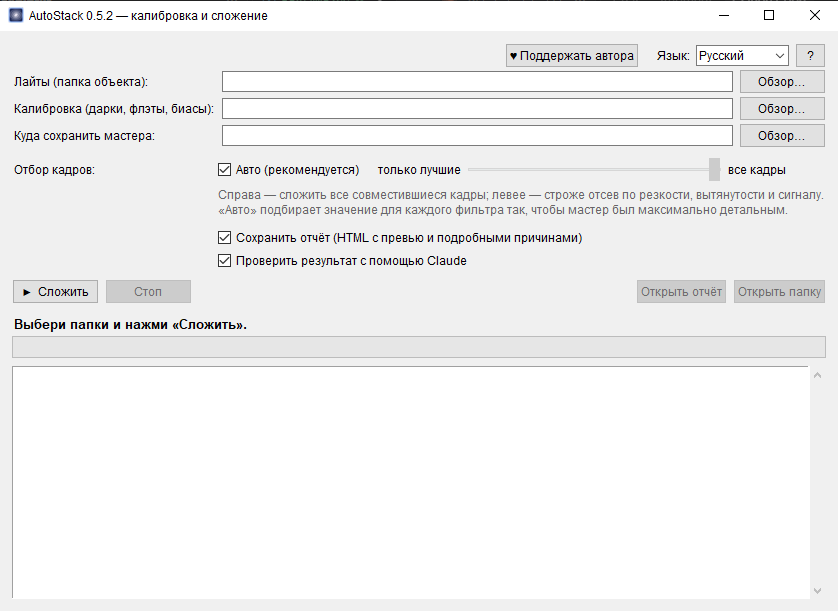
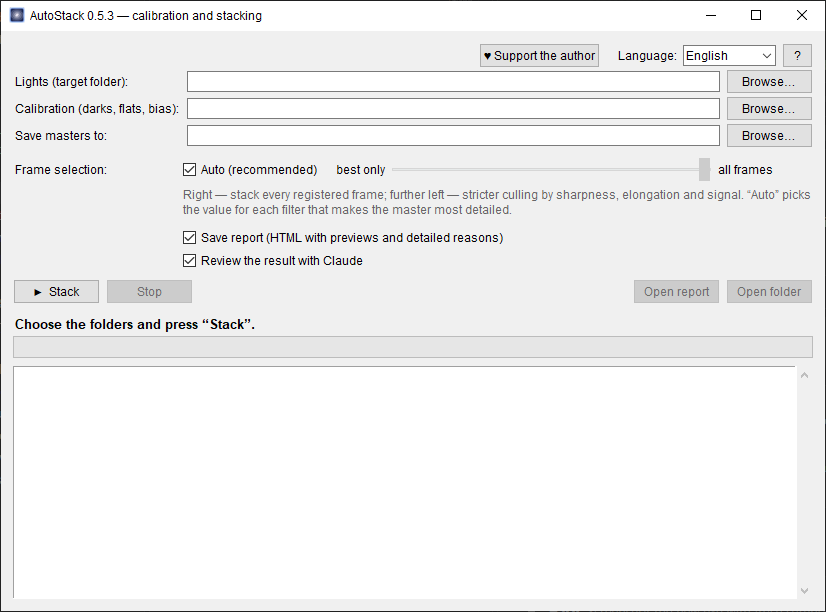
Download page: English first, English screenshot

diff --git a/README.md b/README.md
@@ -1,63 +1,63 @@
 # AutoStack
 
-**Калибровка и сложение астрофотографий в одну кнопку — поверх PixInsight WBPP.**
-*One-button calibration and stacking of astrophotos on top of PixInsight WBPP.* — [English below](#english)
+**One-button calibration and stacking of astrophotos — on top of PixInsight WBPP.**
+*Калибровка и сложение астрофотографий в одну кнопку — поверх PixInsight WBPP.* — [Русская версия ниже](#russian)
 
 ![AutoStack](screenshot.png)
 
-## Скачать
+## Download
 
-**[⬇ Последняя версия — Releases](../../releases/latest)** → `AutoStack-<версия>-win64.zip`, распаковать, запустить `AutoStack.exe`.
+**[⬇ Latest version — Releases](../../releases/latest)** → `AutoStack-<version>-win64.zip`, unzip, run `AutoStack.exe`.
 
-Windows может предупредить «Windows защитила компьютер» → «Подробнее» → «Выполнить в любом случае» (у программы нет платной подписи кода).
+Windows may show “Windows protected your PC” → “More info” → “Run anyway” (the program has no paid code-signing certificate).
 
-## Зачем
+## Why
 
-WBPP в PixInsight часто выбрасывает часть лайтов: мало звёзд, низкий SNR, неподходящие дарки, отсечка по весу — а подбирать настройки вручную долго. AutoStack делает это сам. Цель — сложить **все ваши лайты, по возможности 100%**, и объяснить по каждому кадру, который не вошёл, почему и что с этим делать.
+PixInsight's WBPP often drops some of your lights: too few stars, low SNR, unsuitable darks, the weight cut-off — and finding settings that work by hand is slow. AutoStack does it for you. The goal is to stack **all your lights, 100% where possible**, and to explain for every frame that didn't make it why and what to do about it.
 
-Внутри работает обычный, неизменённый WBPP — AutoStack только управляет им и проверяет результат.
+Inside it runs the ordinary, unmodified WBPP — AutoStack only drives it and checks the result.
 
-## Что умеет
+## Features
 
-- **Подбирает калибровку**: дарки (и флэты, биасы) по gain, offset, температуре и выдержке, а не только по выдержке, как WBPP. Ловит дарки от другой камеры или с другим gain и объясняет, почему они не подходят.
-- **Сам подбирает настройки регистрации** для каждого фильтра — от стандартных до самых чувствительных, включая поля с очень малым числом звёзд (например, галактика в Hα) — и **проверяет точность совмещения по звёздам**.
-- **Сам выбирает опорный кадр**, с которым совмещается больше всего кадров во всех фильтрах.
-- **«Отбор кадров»**: шкала от «только лучшие» до «все кадры» и режим **«Авто»**, который для каждого фильтра выбирает, при каком отборе мастер будет самым детальным.
-- Моно и цветные (OSC) камеры. Все мастера выровнены друг на друга — готовы к LRGB/SHO.
-- **Подробный отчёт** (HTML с превью): что вошло, что нет, почему и что делать.
-- Интерфейс на **русском и английском**.
-- По желанию — **проверка результата Claude** (если установлен Claude Code; только чтение).
+- **Matches calibration**: darks (and flats, bias) on gain, offset, temperature and exposure — not just exposure, as WBPP does. Catches darks from another camera or with another gain and explains why they don't fit.
+- **Finds registration settings by itself** for each filter — from default to the most sensitive, including very star-poor fields (e.g. a galaxy in Hα) — and **verifies alignment accuracy with stars**.
+- **Chooses the reference frame by itself**: the one the most frames of all filters register to.
+- **Frame selection**: a slider from “best only” to “all frames”, plus **Auto**, which picks for each filter the selection that gives the most detailed master.
+- Mono and colour (OSC) cameras. All masters are aligned to each other — ready for LRGB/SHO.
+- **Detailed report** (HTML with previews): what went in, what didn't, why, and what to do.
+- **English and Russian** interface.
+- Optional **review of the result by Claude** (if Claude Code is installed; read-only).
 
-## Что нужно
+## Requirements
 
 - Windows
-- PixInsight 1.9 с WBPP 3.x
-- по желанию: Claude Code
+- PixInsight 1.9 with WBPP 3.x
+- optional: Claude Code
 
-## Поддержать автора
+## Support the author
 
-Программа бесплатная. Если она вам помогла — **[♥ поддержать автора через PayPal](https://www.paypal.com/donate/?business=shanvit1201%40gmail.com&no_recurring=0&item_name=AutoStack)** (та же кнопка есть в окне программы).
+AutoStack is free. If it helped you — **[♥ support the author via PayPal](https://www.paypal.com/donate/?business=shanvit1201%40gmail.com&no_recurring=0&item_name=AutoStack)** (the same button is in the program window).
 
-## Лицензия
+## License
 
-Бесплатно для использования; можно передавать неизменённые копии официальных релизов. Изменять, декомпилировать и распространять изменённые версии нельзя — см. [LICENSE](LICENSE). Исходный код закрыт.
+Free to use; unmodified copies of official releases may be shared. Modifying, decompiling and distributing modified versions is not allowed — see [LICENSE](LICENSE). Closed source.
 
-PixInsight и WBPP — продукты Pleiades Astrophoto S.L., в AutoStack не входят и используются без изменений.
+PixInsight and WBPP are products of Pleiades Astrophoto S.L.; they are not included in AutoStack and are used unmodified.
 
 ---
 
-<a name="english"></a>
-## English
+<a name="russian"></a>
+## Русский
 
-**AutoStack** calibrates and stacks your light frames in PixInsight automatically. WBPP often drops frames (few stars, low SNR, unsuitable darks, the weight cut-off) and finding settings by hand is slow; AutoStack's goal is to stack **all your lights, 100% where possible**, and to explain for every frame that didn't make it why and what to do.
+**AutoStack** сам калибрует и складывает ваши лайты в PixInsight. WBPP часто выбрасывает кадры (мало звёзд, низкий SNR, неподходящие дарки, отсечка по весу), а подбирать настройки вручную долго; цель AutoStack — сложить **все ваши лайты, по возможности 100%**, и по каждому кадру, который не вошёл, объяснить, почему и что с этим делать.
 
-**[⬇ Download the latest release](../../releases/latest)** → unzip → run `AutoStack.exe` (Windows may show “Windows protected your PC” → “More info” → “Run anyway”).
+**[⬇ Скачать последнюю версию](../../releases/latest)** → распаковать → запустить `AutoStack.exe` (Windows может предупредить «Windows защитила компьютер» → «Подробнее» → «Выполнить в любом случае»).
 
-- matches darks/flats on gain, offset, temperature and exposure (catches darks from another camera)
-- finds registration settings per filter, down to very star-poor fields, and verifies accuracy with stars
-- picks the reference frame most frames register to
-- **Frame selection**: slider from “best only” to “all frames”, plus **Auto** that picks the most detailed master per filter
-- mono and colour (OSC) cameras; all masters aligned to each other
-- detailed HTML report; Russian and English interface; optional read-only review by Claude Code
+- подбирает дарки/флэты по gain, offset, температуре и выдержке (ловит дарки от другой камеры)
+- сам находит настройки регистрации для каждого фильтра, вплоть до полей с очень малым числом звёзд, и проверяет точность по звёздам
+- сам выбирает опорный кадр, с которым совмещается больше всего кадров
+- **«Отбор кадров»**: шкала от «только лучшие» до «все кадры» и режим **«Авто»**, выбирающий самый детальный мастер для каждого фильтра
+- моно и цветные (OSC) камеры; все мастера выровнены друг на друга
+- подробный HTML-отчёт; интерфейс на английском и русском (переключатель «Language» в окне); по желанию — проверка Claude Code (только чтение)
 
-Requires Windows and PixInsight 1.9 with WBPP 3.x. Free to use; **[♥ support the author via PayPal](https://www.paypal.com/donate/?business=shanvit1201%40gmail.com&no_recurring=0&item_name=AutoStack)**. Closed source; see [LICENSE](LICENSE). PixInsight and WBPP are products of Pleiades Astrophoto S.L.
+Нужны Windows и PixInsight 1.9 с WBPP 3.x. Программа бесплатная; **[♥ поддержать автора через PayPal](https://www.paypal.com/donate/?business=shanvit1201%40gmail.com&no_recurring=0&item_name=AutoStack)**. Исходный код закрыт, см. [LICENSE](LICENSE). PixInsight и WBPP — продукты Pleiades Astrophoto S.L.
